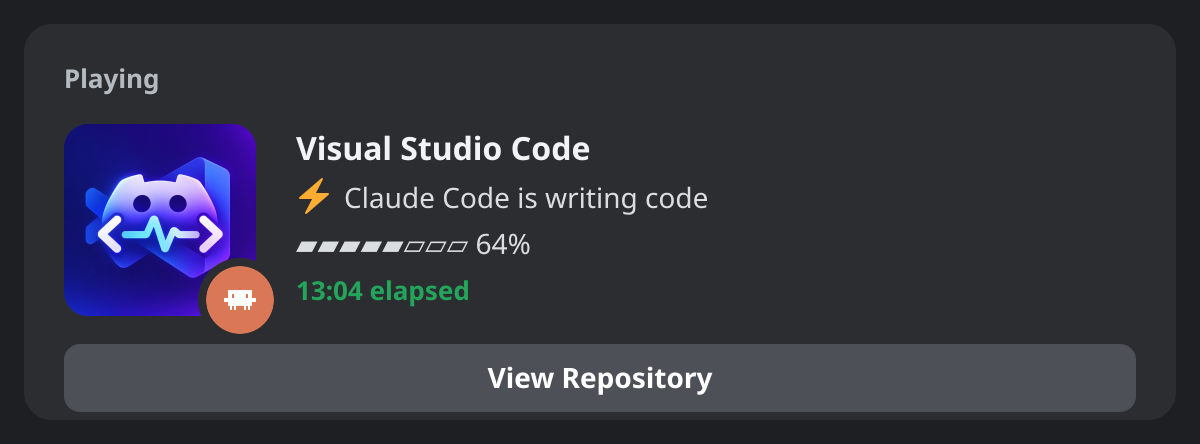
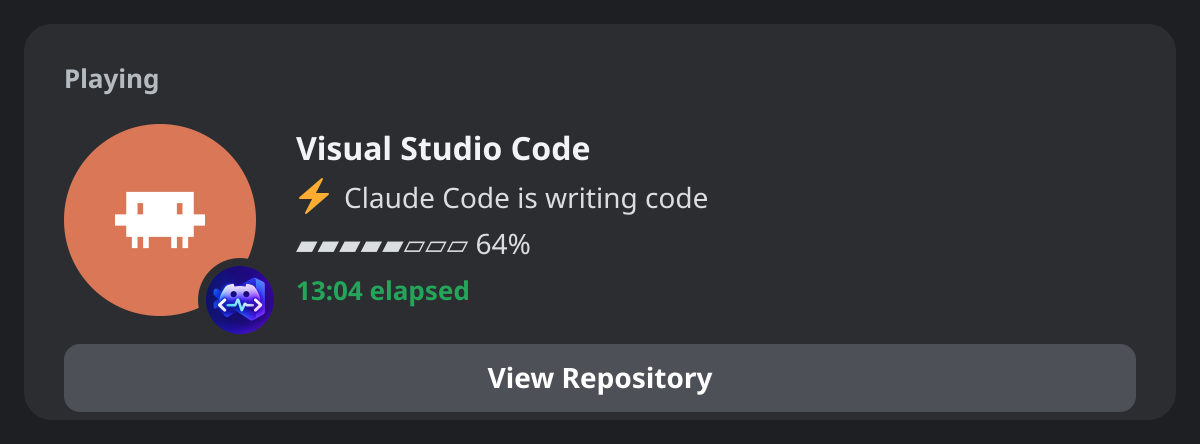
Update presence on every change; animate the large image too
- Cursor moves, typing and agent activity now trigger an update right
  away, throttled to one per 4 s (Discord allows 5 per 20 s). Updates
  with an unchanged payload are skipped, and only the timer advances
  the animation frame.
- Large image now shows the language icon (and agent logo when one is
  detected); the small image alternates between the app logo and the
  activity icon. New setting largeImageFrames.
- Default logo is a GitHub URL instead of an asset key, so logo changes
  don't need a Discord upload and avoid Discord's asset cache.
- README mockups follow the new layout. Bump to 0.2.0.

Changed region(s): [[0.0308, 0.2635, 0.2467, 0.7613]]

diff --git a/src/extension.js b/src/extension.js
@@ -1,12 +1,12 @@
 const vscode = require('vscode');
 const path = require('path');
 const { DiscordIPC } = require('./ipc');
-const { DEFAULT_CLIENT_ID, LANGUAGE_ICONS, LANGUAGE_ALIASES } = require('./constants');
+const { DEFAULT_CLIENT_ID, DEFAULT_LOGO, LANGUAGE_ICONS, LANGUAGE_ALIASES } = require('./constants');
 const { AgentDetector } = require('./agents');
 const { repoButtonUrl, getBranch } = require('./repo');
 
 const CFG = 'animatedPresence';
-const MIN_SEND_GAP = 5000; // jeda minimum antar pengiriman ke Discord
+const MIN_SEND_GAP = 4000; // jeda minimum antar update (Discord: maks 5 update per 20 detik)
 
 let client = null;
 let ready = false;
@@ -15,6 +15,7 @@ let timer = null;
 let reconnectTimer = null;
 let pendingSend = null;
 let lastSent = 0;
+let lastPayload = null;
 let frame = 0;
 let sessionStart = Date.now();
 let lastActivity = Date.now();
@@ -30,7 +31,8 @@ function activate(context) {
   status.command = `${CFG}.reconnect`;
   context.subscriptions.push(status);
 
-  const touch = () => { lastActivity = Date.now(); };
+  // Setiap aktivitas (kursor, ketikan, agent) langsung memicu update presence (di-throttle)
+  const touch = () => { lastActivity = Date.now(); requestSend(); };
   lastEditor = vscode.window.activeTextEditor || null;
   agents = new AgentDetector();
   agents.register(context, touch);
@@ -100,7 +102,7 @@ async function connect(clientId) {
   updateStatus('on');
   c.on('close', () => { if (client === c) { cleanup(); scheduleReconnect(); } });
 
-  send();
+  send(false); // frame pertama, tanpa memajukan animasi
   const ms = Math.max(15, cfg().get('frameInterval') || 15) * 1000;
   timer = setInterval(send, ms);
 }
@@ -114,6 +116,7 @@ function scheduleReconnect() {
 function cleanup() {
   ready = false;
   connecting = false;
+  lastPayload = null; // setelah sambung ulang, kirim ulang presence
   if (timer) { clearInterval(timer); timer = null; }
   if (pendingSend) { clearTimeout(pendingSend); pendingSend = null; }
   if (client) { const c = client; client = null; c.destroy(); }
@@ -162,6 +165,26 @@ function progressBar(pct, len = 8) {
 
 function fill(template, vars) {
   return String(template).replace(/\{(\w+)\}/g, (_, k) => (k in vars ? vars[k] : `{${k}}`));
+}
+
+function frameList(arr, fallback) {
+  return Array.isArray(arr) && arr.length ? arr : fallback;
+}
+
+// Isi placeholder, buang yang kosong/duplikat, lalu ambil frame saat ini (melewati `avoid`)
+function pickImage(list, vars, avoid) {
+  const seen = new Set();
+  const resolved = list
+    .filter((f) => f && f.key)
+    .map((f) => ({ key: fill(f.key, vars), text: fill(f.text || '', vars) }))
+    .filter((f) => f.key && !f.key.includes('{') && !seen.has(f.key) && seen.add(f.key));
+  if (!resolved.length) return null;
+  const start = frame % resolved.length;
+  for (let i = 0; i < resolved.length; i++) {
+    const f = resolved[(start + i) % resolved.length];
+    if (f.key !== avoid) return f;
+  }
+  return null;
 }
 
 function pick(arr, fallback = ['']) {
@@ -239,26 +262,27 @@ function buildActivity() {
     state = fill(pick(c.get('stateFrames'), ['{spinner} Line {line}']), vars);
   }
 
-  // Gambar kecil yang ikut berganti tiap frame (ikon agent ikut disisipkan, tanpa duplikat)
-  let smallFrames = c.get('smallImageFrames');
-  if (!Array.isArray(smallFrames) || !smallFrames.length) smallFrames = [{ key: '{langIcon}', text: '{language}' }];
-  if (agent) smallFrames = [...smallFrames, { key: '{agentIcon}', text: '{agent}' }];
-  const seen = new Set();
-  const resolved = smallFrames
-    .filter((f) => f && f.key)
-    .map((f) => ({ key: fill(f.key, vars), text: fill(f.text || '', vars) }))
-    .filter((f) => f.key && !f.key.includes('{') && !seen.has(f.key) && seen.add(f.key));
-  const small = resolved.length ? resolved[frame % resolved.length] : null;
+  // Gambar besar & kecil berganti tiap frame.
+  // Default: besar = ikon bahasa (+ ikon agent), kecil = logo aplikasi <-> ikon aktivitas. Saat idle: besar = logo, kecil = idle.
+  vars.logo = (c.get('largeImageKey') || '').trim() || DEFAULT_LOGO;
+  const largeList = idle
+    ? [{ key: '{logo}', text: '{editor}' }]
+    : [...frameList(c.get('largeImageFrames'), [{ key: '{langIcon}', text: '{language}' }]),
+      ...(agent ? [{ key: '{agentIcon}', text: '{agent}' }] : [])];
+  const smallList = idle
+    ? [{ key: 'idle', text: 'Idle' }]
+    : frameList(c.get('smallImageFrames'), [{ key: '{logo}', text: '{editor}' }]);
+  const large = pickImage(largeList, vars) || { key: vars.logo, text: vars.editor };
+  // Jangan tampilkan gambar yang sama di besar & kecil sekaligus
+  const small = pickImage(smallList, vars, large.key);
 
   const activity = {
     details: details.slice(0, 128),
     state: state.slice(0, 128),
     timestamps: { start: sessionStart },
     assets: {
-      large_image: c.get('largeImageKey') || 'logo',
-      large_text: idle
-        ? vars.editor
-        : `${vars.editor} \u2022 ${vars.language}${agent ? ` \u2022 ${agent.name}` : ''}`,
+      large_image: large.key,
+      large_text: large.text.slice(0, 128) || undefined,
     },
     instance: false,
   };
@@ -284,24 +308,35 @@ function buildActivity() {
   return activity;
 }
 
-// advance=true: maju ke frame animasi berikutnya (dari timer)
+// advance=true: maju ke frame animasi berikutnya (dari timer).
+// advance=false: update langsung karena ada perubahan (kursor, ketikan, pindah file), frame tetap.
 function send(advance = true) {
   if (!ready || !client) return;
+  if (advance) frame++;
   const wsName = vscode.workspace.name || vscode.workspace.workspaceFolders?.[0]?.name || '';
   if ((cfg().get('ignoredWorkspaces') || []).includes(wsName)) {
-    client.clearActivity();
+    if (lastPayload !== 'cleared') client.clearActivity();
+    lastPayload = 'cleared';
   } else {
-    client.setActivity(buildActivity());
+    const activity = buildActivity();
+    const payload = JSON.stringify(activity);
+    if (!advance && payload === lastPayload) return; // tidak ada yang berubah, hemat jatah update
+    client.setActivity(activity);
+    lastPayload = payload;
   }
   const agent = cfg().get('showAgent') ? agents.current() : null;
   status.tooltip = `Animated Presence: terhubung ke Discord\nAgent: ${
     agent ? `${agent.name}${agent.working ? ' (sedang menulis kode)' : ''} \u2022 via ${agent.source}` : 'tidak terdeteksi'}`;
   lastSent = Date.now();
-  if (advance) frame++;
 }
 
 function deactivate() {
   stop();
 }
 
-module.exports = { activate, deactivate, _test: { buildActivity, setFrame: (n) => { frame = n; } } };
+module.exports = {
+  activate,
+  deactivate,
+  // Hanya untuk pengujian
+  _test: { buildActivity, send, setFrame: (n) => { frame = n; }, attach: (c) => { client = c; ready = true; } },
+};

diff --git a/scripts/build-preview.js b/scripts/build-preview.js
@@ -50,7 +50,7 @@ function line(text, x, y, attrs) {
 }
 
 // Kartu aktivitas bergaya profil Discord (tema gelap)
-function card({ details, state, small, elapsed, button = 'View Repository', heading = 'Playing' }) {
+function card({ details, state, large = 'logo', small, elapsed, button = 'View Repository', heading = 'Playing' }) {
   const H = button ? 222 : 172;
   return `<svg xmlns="http://www.w3.org/2000/svg" width="${W}" height="${H}" viewBox="0 0 ${W} ${H}">
   <defs>
@@ -60,7 +60,7 @@ function card({ details, state, small, elapsed, button = 'View Repository', head
   <rect width="${W}" height="${H}" fill="#1E1F22"/>
   <rect x="12" y="12" width="${W - 24}" height="${H - 24}" rx="14" fill="#2B2D31"/>
   <text x="32" y="44" font-family="${FONT}" font-size="13" font-weight="700" fill="#B5BAC1">${heading}</text>
-  <image x="32" y="62" width="96" height="96" href="${img('logo')}" clip-path="url(#large)"/>
+  <image x="32" y="62" width="96" height="96" href="${img(large)}" clip-path="url(#large)"/>
   <circle cx="120" cy="150" r="21" fill="#2B2D31"/>
   <image x="103" y="133" width="34" height="34" href="${img(small)}" clip-path="url(#small)"/>
   <g font-family="${FONT}">
@@ -76,13 +76,13 @@ function card({ details, state, small, elapsed, button = 'View Repository', head
 
 // Urutan frame mengikuti keluaran ekstensi (default settings), tiap frame = 15 detik di Discord
 const FRAMES = [
-  { details: 'Editing app.ts', state: '⠋ Line 50', small: 'lang-typescript', elapsed: '12:04' },
-  { details: 'Workspace: my-project', state: '▰▰▰▰▱▱▱▱ 50%', small: 'typing', elapsed: '12:19' },
-  { details: 'Coding in typescript', state: '⠹ 12m coding', small: 'lang-typescript', elapsed: '12:34' },
-  { details: '🤖 Coding with Claude Code', state: '⠸ Line 64', small: 'agent-claude', elapsed: '12:49' },
-  { details: '⚡ Claude Code is writing code', state: '▰▰▰▰▰▱▱▱ 64%', small: 'agent-claude', elapsed: '13:04' },
-  { details: 'Editing server.py', state: '⠼ Line 128', small: 'lang-python', elapsed: '13:19' },
-  { details: 'Workspace: my-project', state: '▰▰▰▰▰▰▱▱ 71%', small: 'debugging', elapsed: '13:34' },
+  { details: 'Editing app.ts', state: '⠋ Line 50', large: 'lang-typescript', small: 'logo', elapsed: '12:04' },
+  { details: 'Workspace: my-project', state: '▰▰▰▰▱▱▱▱ 50%', large: 'lang-typescript', small: 'typing', elapsed: '12:19' },
+  { details: 'Coding in typescript', state: '⠹ 12m coding', large: 'lang-typescript', small: 'logo', elapsed: '12:34' },
+  { details: '🤖 Coding with Claude Code', state: '⠸ Line 64', large: 'agent-claude', small: 'logo', elapsed: '12:49' },
+  { details: '⚡ Claude Code is writing code', state: '▰▰▰▰▰▱▱▱ 64%', large: 'agent-claude', small: 'logo', elapsed: '13:04' },
+  { details: 'Editing server.py', state: '⠼ Line 128', large: 'lang-python', small: 'logo', elapsed: '13:19' },
+  { details: 'Workspace: my-project', state: '▰▰▰▰▰▰▱▱ 71%', large: 'lang-python', small: 'debugging', elapsed: '13:34' },
 ];
 
 function render(svgText, out) {
@@ -112,7 +112,7 @@ execFileSync('ffmpeg', [
 // Kartu statis
 render(card(FRAMES[4]), path.join(MEDIA, 'card-agent.png'));
 render(card(IDLE), path.join(MEDIA, 'card-idle.png'));
-render(card({ details: 'Editing main.rs', state: '⠦ Line 12', small: 'debugging', elapsed: '03:41', button: null }),
+render(card({ details: 'Editing main.rs', state: '⠦ Line 12', large: 'lang-rust', small: 'debugging', elapsed: '03:41', button: null }),
   path.join(MEDIA, 'card-debug.png'));
 
 // Lembar ikon

diff --git a/src/constants.js b/src/constants.js
@@ -4,6 +4,10 @@
 // Nama aplikasi = teks setelah "Playing ..." di profil Discord (mis. "Visual Studio Code").
 const DEFAULT_CLIENT_ID = '1574825884290916463';
 
+// Logo aplikasi sebagai URL (bukan asset key): Discord tidak menyimpan cache lama untuk URL,
+// dan logo bisa diganti cukup dengan push ke GitHub.
+const DEFAULT_LOGO = 'https://raw.githubusercontent.com/azizuzezo/animated-presence/main/assets/discord/logo.png';
+
 // languageId VS Code yang punya ikon "lang-<nama>" di Art Assets aplikasi Discord.
 // Bahasa lain memakai ikon "lang-file".
 const LANGUAGE_ICONS = new Set([
@@ -22,4 +26,4 @@ const LANGUAGE_ALIASES = {
   powershell: 'shellscript',
 };
 
-module.exports = { DEFAULT_CLIENT_ID, LANGUAGE_ICONS, LANGUAGE_ALIASES };
+module.exports = { DEFAULT_CLIENT_ID, DEFAULT_LOGO, LANGUAGE_ICONS, LANGUAGE_ALIASES };

diff --git a/README.md b/README.md
@@ -21,7 +21,7 @@
 
 - **Tanpa setup.** Install, buka VS Code, dan presence langsung muncul. Tidak perlu login atau konfigurasi apa pun.
 - **Teks animatif.** Baris presence bergantian: file → workspace → bahasa → AI agent, dengan spinner dan progress bar `▰▰▰▱▱▱▱▱`.
-- **Gambar kecil berganti.** Ikon bahasa (27 bahasa), status aktivitas (*typing*, *reading*, *debugging*, *idle*), dan logo AI agent tampil bergantian.
+- **Gambar ikut berganti.** Gambar besar menampilkan ikon bahasa (27 bahasa) dan logo AI agent. Gambar kecil bergantian antara logo dan status aktivitas (*typing*, *reading*, *debugging*, *idle*).
 - **Deteksi AI agent.** Presence tahu saat kamu memakai Claude Code, Codex, Copilot, Gemini, Cline, Antigravity, Cursor, dan agent lain.
 - **Tombol "View Repository".** Otomatis mengarah ke repo GitHub atau GitLab proyekmu, dan hanya muncul untuk repo publik.
 - **Ramah privasi.** Nama file dan workspace bisa disembunyikan, dan workspace tertentu bisa diabaikan.
@@ -34,7 +34,7 @@
     <td align="center" width="50%">
       <img src="media/card-agent.png" alt="Saat AI agent menulis kode"><br>
       <b>AI agent sedang menulis kode</b><br>
-      <sub>Terdeteksi dari <code>claude</code> di terminal, logo Claude di gambar kecil.</sub>
+      <sub>Terdeteksi dari <code>claude</code> di terminal, logo Claude di gambar besar.</sub>
     </td>
     <td align="center" width="50%">
       <img src="media/card-debug.png" alt="Saat debugging"><br>
@@ -97,7 +97,9 @@ Semua pengaturan opsional. Buka **Settings** dan cari `Animated Presence`.
 | `animatedPresence.frameInterval` | `15` | Detik antar frame (minimum 15, batas Discord) |
 | `animatedPresence.detailsFrames` | `["Editing {file}", …]` | Frame baris pertama |
 | `animatedPresence.stateFrames` | `["{spinner} Line {line}", …]` | Frame baris kedua |
-| `animatedPresence.smallImageFrames` | ikon bahasa + aktivitas | Frame gambar kecil |
+| `animatedPresence.largeImageFrames` | ikon bahasa | Frame gambar besar (ikon agent otomatis ikut) |
+| `animatedPresence.smallImageFrames` | logo + aktivitas | Frame gambar kecil |
+| `animatedPresence.largeImageKey` | logo bawaan | Logo aplikasi (`{logo}`): asset key atau URL gambar |
 | `animatedPresence.spinnerFrames` | spinner Braille | Karakter spinner |
 | `animatedPresence.showAgent` | `true` | Deteksi AI agent |
 | `animatedPresence.agentFrames` | `["🤖 Coding with {agent}"]` | Frame saat agent terdeteksi |
@@ -111,7 +113,7 @@ Semua pengaturan opsional. Buka **Settings** dan cari `Animated Presence`.
 | `animatedPresence.idleTimeout` | `300` | Detik tanpa aktivitas sebelum idle (`0` = mati) |
 | `animatedPresence.idleText` | `"💤 Idle..."` | Teks saat idle |
 
-**Placeholder:** `{file}` `{workspace}` `{language}` `{line}` `{branch}` `{spinner}` `{bar}` `{percent}` `{elapsed}` `{activity}` `{agent}` `{editor}`
+**Placeholder:** `{file}` `{workspace}` `{language}` `{line}` `{branch}` `{spinner}` `{bar}` `{percent}` `{elapsed}` `{activity}` `{agent}` `{editor}` `{logo}`
 
 <details>
 <summary><b>Contoh kustomisasi</b></summary>
